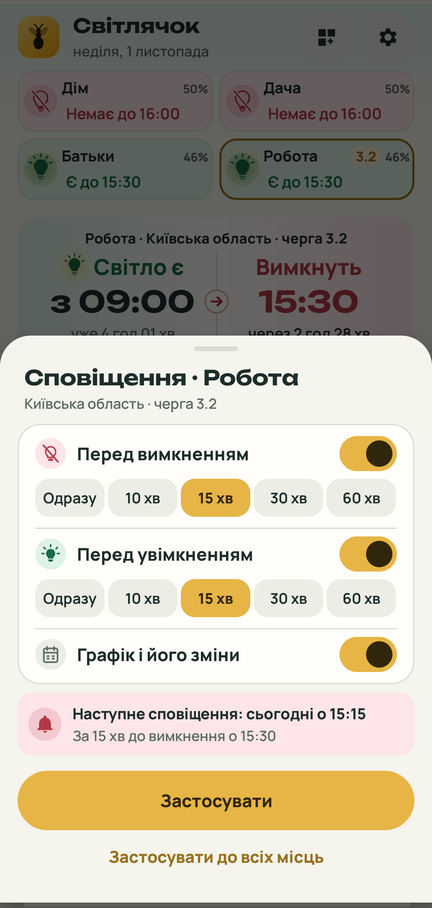
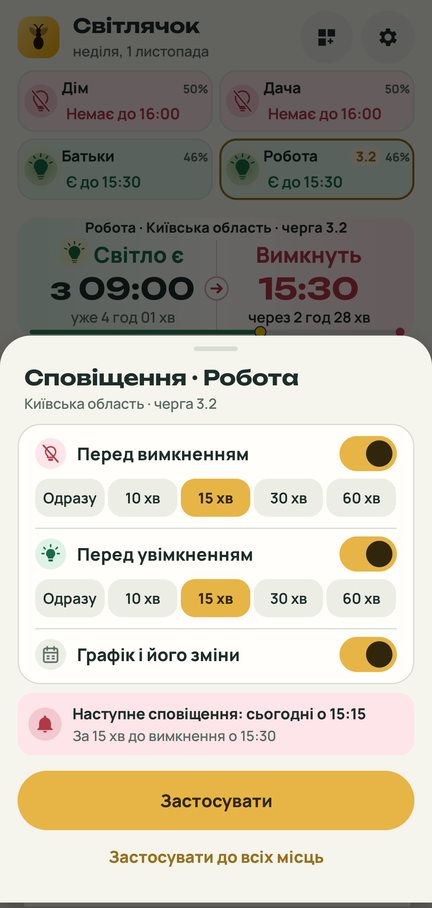
1.10.0-rc.2 docs: changelog, README and the nine screenshots from the checked RC

Changed region(s): [[0.0903, 0.2467, 0.8727, 0.37], [0.9028, 0.3392, 0.9329, 0.37]]

diff --git a/README.md b/README.md
@@ -64,7 +64,7 @@ Android-застосунок із графіком погодинних відк
 - Що зараз за графіком, відколи й скільки триває: «Світло є з 09:00, уже 4 год».
 - Наступна подія, її час і скільки до неї: «Вимкнуть 15:30, через 2 год 29 хв». Тонка смужка внизу картки показує, яка частина поточного стану вже минула.
 - Сьогодні й завтра: 24 годинні клітинки двома рядами й підсумок очікуваного світла. Години одного стану зливаються в один відрізок, тонка риска позначає межу години. Половина клітинки — 30 хвилин. Минулі години трохи приглушені, поточна виділена жовтою рамкою.
-- Натискання на «Сьогодні» чи «Завтра» відкриває список інтервалів дня словами: коли світло є, коли немає, коли можливе вимкнення.
+- Натискання на рядок «Сьогодні» чи «Завтра» відкриває список інтервалів дня словами: коли світло є, коли немає, коли можливе вимкнення. Вимкнення стоять на рожевому тлі, поточний інтервал — у жовтій рамці з часом, що лишився.
 - Місто Київ і 16 областей — [список](#області).
 
 ### 🔔 Сповіщення
@@ -89,7 +89,7 @@ Android-застосунок із графіком погодинних відк
 
 - Кнопка в рядку «Сьогодні» і в рядку «Завтра». Графік дня надсилається компактною
   картинкою у Viber, Telegram чи куди завгодно.
-- На картинці — черга, область, дата, години вимкнень і адреса, де завантажити застосунок, без назви вашого місця.
+- На картинці — черга, область, дата, графік годин, як у застосунку, усі вимкнення дня й адреса, де завантажити застосунок, без назви вашого місця. Поточне вимкнення обведено жовтою рамкою, а біля черги вказано час, станом на який зроблено картинку.
 
 ### 🧩 Віджети
 
@@ -98,7 +98,7 @@ Android-застосунок із графіком погодинних відк
 - Свій віджет для кожного місця: лампочка, стан, назва місця й час наступної зміни в її кольорі.
 - Колір показує, що зараз і що далі: зліва поточний стан, справа наступна подія.
 - Два розміри: малий 2×1 і великий 4×2 з погодинною сіткою, як у застосунку. Після полудня, коли з’являється графік на завтра, великий показує сьогодні 12–23 і завтра 00–11. Опівночі повертається повний день 00–23; біля повного дня немає зайвого підпису діапазону. Підсумки годин світла й відсотків завжди за повні доби. На низькому великому віджеті (200×110) — половина сьогоднішнього дня з поточною годиною одним рядом, щоб цифри читалися. Найменший малий віджет показує лише лампочку й час наступної зміни.
-- Як на картці: стани посередині своїх половин, між ними стрілка, під годинником смужка поточного стану.
+- Як на картці: стани посередині своїх половин тими самими словами, між годинами стрілка, під годинником смужка поточного стану. Коли «Світла немає» не вміщається, віджет пише «Немає».
 - Перед зміною половина з наступною подією заливається її кольором, як на картці.
 - Оновлюється сам у моменти змін, без відкриття застосунку.
 - [Як додати віджет](#віджети)
@@ -140,7 +140,7 @@ Android-застосунок із графіком погодинних відк
 - **Кольори**: зелений — світло є, червоний — світла немає, бурштиновий — можливе вимкнення,
   сірий — графіка ще немає. Лампочка дублює стан формою: з променями, перекреслена, наполовину
   залита, контур — тож його видно й без розрізнення кольорів.
-- **Картка стану** має дві половини, як великий віджет: зліва що зараз, відколи й скільки триває; справа наступна подія, її час і скільки до неї лишилось. Кожен стан стоїть посередині своєї половини, стрілка між ними має колір наступного стану. Смужка внизу показує, яка частина поточного стану минула; жовта позначка — зараз. Коли закінчиться наступний інтервал, видно на годинних клітинках нижче. Перед зміною права половина заливається кольором події.
+- **Картка стану** має дві половини, як великий віджет: зліва що зараз, відколи й скільки триває; справа наступна подія, її час і скільки до неї лишилось. Кожен стан стоїть посередині своєї половини, стрілка між годинами має колір наступного стану. Смужка внизу показує, яка частина поточного стану минула; жовта позначка — зараз. Коли закінчиться наступний інтервал, видно на годинних клітинках нижче. Перед зміною права половина заливається кольором події.
 - **Початок стану** шукається в збережених графіках попередніх днів. За відсутності попередньої історії відлік починається від першого відомого часу, наприклад «з 00:00».
 - **Вибране місце** позначене контуром і номером черги на плитці. У картці стану вгорі його назва, область і черга: «Дім · Київська область · черга 3.1».
 - **Скора зміна** видна на плитці будь-якого місця: час стає на заливку кольору події за стільки хвилин, скільки вибрано у сповіщеннях місця, інакше за 15 хвилин.

diff --git a/CHANGELOG.md b/CHANGELOG.md
@@ -6,18 +6,18 @@
 
 - **Внизу головної картки тонка смужка показує, скільки минуло від початку поточного стану до наступної зміни.** Жовта позначка — зараз. Така сама смужка є на віджетах.
 - **Коли світло є, лампочка світиться теплим ореолом** — на плитках місць, у головній картці й на віджетах.
-- **Натискання на «Сьогодні» чи «Завтра» відкриває список інтервалів дня:** коли світло є, коли немає, коли можливе вимкнення. Поточний інтервал позначено словом «Зараз».
+- **Натискання на рядок «Сьогодні» чи «Завтра» відкриває список інтервалів дня:** коли світло є, коли немає, коли можливе вимкнення. Кожен рядок має кольорову позначку й лампочку, вимкнення стоять на рожевому тлі, а минулі інтервали притушені. Поточний інтервал обведено жовтою рамкою з позначкою «Зараз» і часом, що лишився. Відкритий список сам переходить до наступного інтервалу.
 - **Порядок місць можна змінити в налаштуваннях:** «Змінити порядок», вибрати місце, «Підняти» чи «Опустити», «Готово».
 
 ### 🔧 Змінено
 
 - **Автоматичне оновлення прибрано: нову версію тепер завантажують на сайті застосунку.** У частини користувачів Google Play Захист позначав Світлячок як небезпечний, бо застосунок завантажував і встановлював нові версії. Тепер, коли виходить нова версія, на головному екрані з'являється картка з кнопкою «Завантажити на сайті»: вона відкриває сайт у браузері, де потрібно натиснути «Завантажити для Android» і встановити файл поверх. Місця й налаштування зберігаються. Дозвіл встановлювати застосунки більше не потрібен. Закриває [#7](https://github.com/ABovsh/svitlyachok/issues/7).
 - **Години одного стану в графіку дня зливаються в один відрізок.** Клітинки стали ширшими, а цифри більшими; межу кожної години всередині відрізка позначає тонка риска.
-- **У головній картці кожен стан стоїть посередині своєї половини,** а між ними — стрілка в колі кольору наступного стану.
+- **У головній картці й на великому віджеті кожен стан стоїть посередині своєї половини, а між годинами — стрілка в колі кольору наступного стану.** Віджет пише стан тими самими словами, що й застосунок; коли «Світла немає» не вміщається, — «Немає». Головна картка стала компактнішою.
 - **Кнопки «Сповіщення» й «Статистика», налаштування й вікно сповіщень отримали значки в кольорових колах.** На кнопці статистики — сім стовпчиків тижня.
-- **Верх головного екрана ледь забарвлений кольором стану вибраного місця.**
 - **У статистиці тижня сьогоднішній день виділено рамкою, а можливі вимкнення описано одним рядком легенди.** Число, якому замало місця у стовпчику, стоїть над ним.
 - **У налаштуваннях біля кожного місця видно його стан і чергу.**
+- **Картинка для поширення показує всі вимкнення дня на окремій панелі «Без світла»,** по три в рядку. Минулі вимкнення темно-червоні, як минулі години в графіку, поточне — червоне в жовтій рамці, майбутні — червоні. Біля черги вказано час, станом на який зроблено картинку.
 - **Низький великий віджет (200×110) показує половину дня одним рядом із читабельними цифрами,** а малий віджет скорочує довгу назву місця замість зменшувати її до нечитабельного розміру. Найменший віджет показує лише лампочку й час.
 
 ### 🐛 Виправлено
